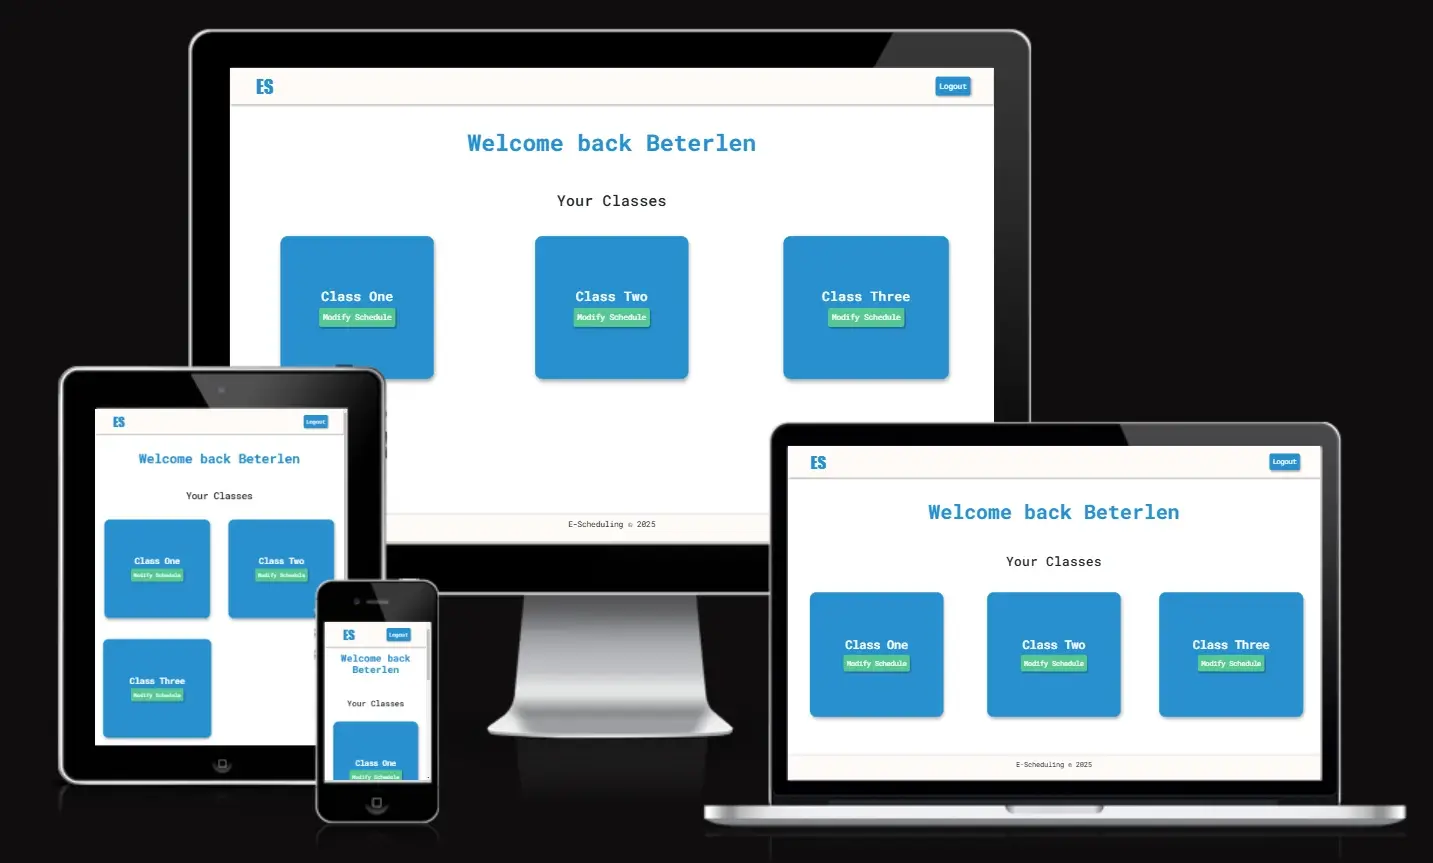
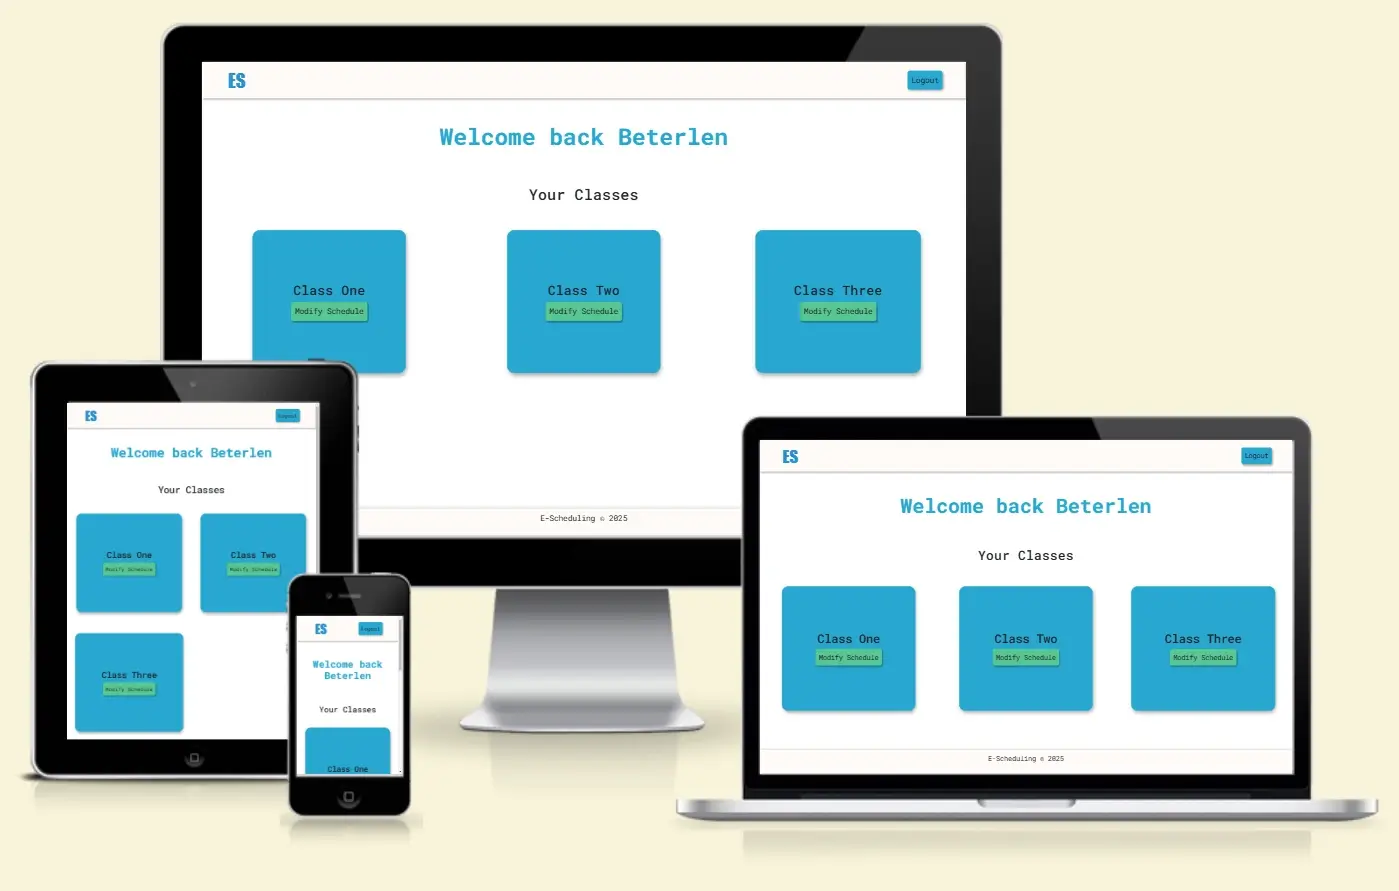
diocument accessibility in readme

diff --git a/README.md b/README.md
@@ -1,5 +1,5 @@
 # Project Planning E-Scheduling
-![E-Scheduling shown on a variety of screen sizes](documentation/images/start-page-responsive1.webp)
+![E-Scheduling shown on a variety of screen sizes](documentation/images/start-page-responsive.webp)
 Welcome to E-Scheduling – Your Trusted Online Time Scheduling Platform
 
 Visit the deployed site: [E-Scheduling](https://hourianouhkhanjar.github.io/e-scheduling)
@@ -29,6 +29,7 @@ It also helps in reducing human errors and improving time management within scho
     * [Start Page](#start-page)
     * [Account Page](#account-page)
     * [Schedule Page](#schedule-page)
+  * [Accessibility](#accessibility)
 
 
 - - -
@@ -114,9 +115,9 @@ In my css file I have used variables to declare colours.
 * I have used `#57C693` as the secondary color for secondary actions.
 * I have used `#fffbf8` as background color for header and footer.
 * I have used `#b2c1d1` as background color for disabled time slot.
-* I have used `#222123` and `#ffffff` as text color.
+* I have used `#222123` as text color.
 
-![Color Scheme](documentation/images/thime-color.webp)
+![Color Scheme](documentation/images/theme-color.webp)
 
 ### Typography
 
@@ -164,11 +165,11 @@ The start page displays the folwing sections:
 
 - **Header section:** contains a simple definition phrase, simple image and a login button that when clicked takes the user to the teachers table section. 
 
-![start page header](documentation/images/start-page-responsive1.webp)
+![start page header](documentation/images/start-page-responsive.webp)
 
 - **Teachers table section:** Each row display teacher name and a login button that when clicked takes the user to the teacher account page. 
 
-![teachers table section](documentation/images/start-page-responsive2.webp)
+![teachers table section](documentation/images/start-page-responsive-2.webp)
 
 - **Footer section and contact us form:** contains website's name and the publishing year.
 
@@ -194,11 +195,28 @@ The schedule page displays the folwing sections:
 
 - **Navbar section:** contains the logo and a logout button that when clicked takes the user to the start page.
 
-- **Header section:** contains a phrase that that define the teacher and class. In addition it includes the instructions for modifying the schedule. 
-
-- **classes list section:** Each card displays the class name and modify schedule button that when clicked takes the user to the schedule page. 
-
+- **Header section:** contains a phrase that define the teacher and class. In addition it includes the instructions for modifying the schedule. 
 ![schedule timetable section](documentation/images/schedule-page-responsive.webp)
 
+- **time slots section:** displays time slots table. 
+![schedule timetable section](documentation/images/schedule-page-responsive2.webp)
+
+
 - **Footer section and contact us form:** contains website's name and the publishing year.
+
+
+### Accessibility
+
+I have been careful while coding to ensure the website is as user-friendly and accessible as possible. This has been accomplished by:
+
+* Using semantic HTML.
+* Implementing a hover state on all buttons across the site, I made sure it is clear to the user when they are hovering over a button.
+* Making sure there is adequate color contrast throughout the site to enhance readability and accessibility.
+
+![contrast button](documentation/images/accessibility3.webp)
+![contrast button](documentation/images/accessibility4.webp)
+![contrast button](documentation/images/accessibility2.webp)
+![contrast text](documentation/images/accessibility1.webp)
+![contrast text](documentation/images/accessibility5.webp)
+
 
